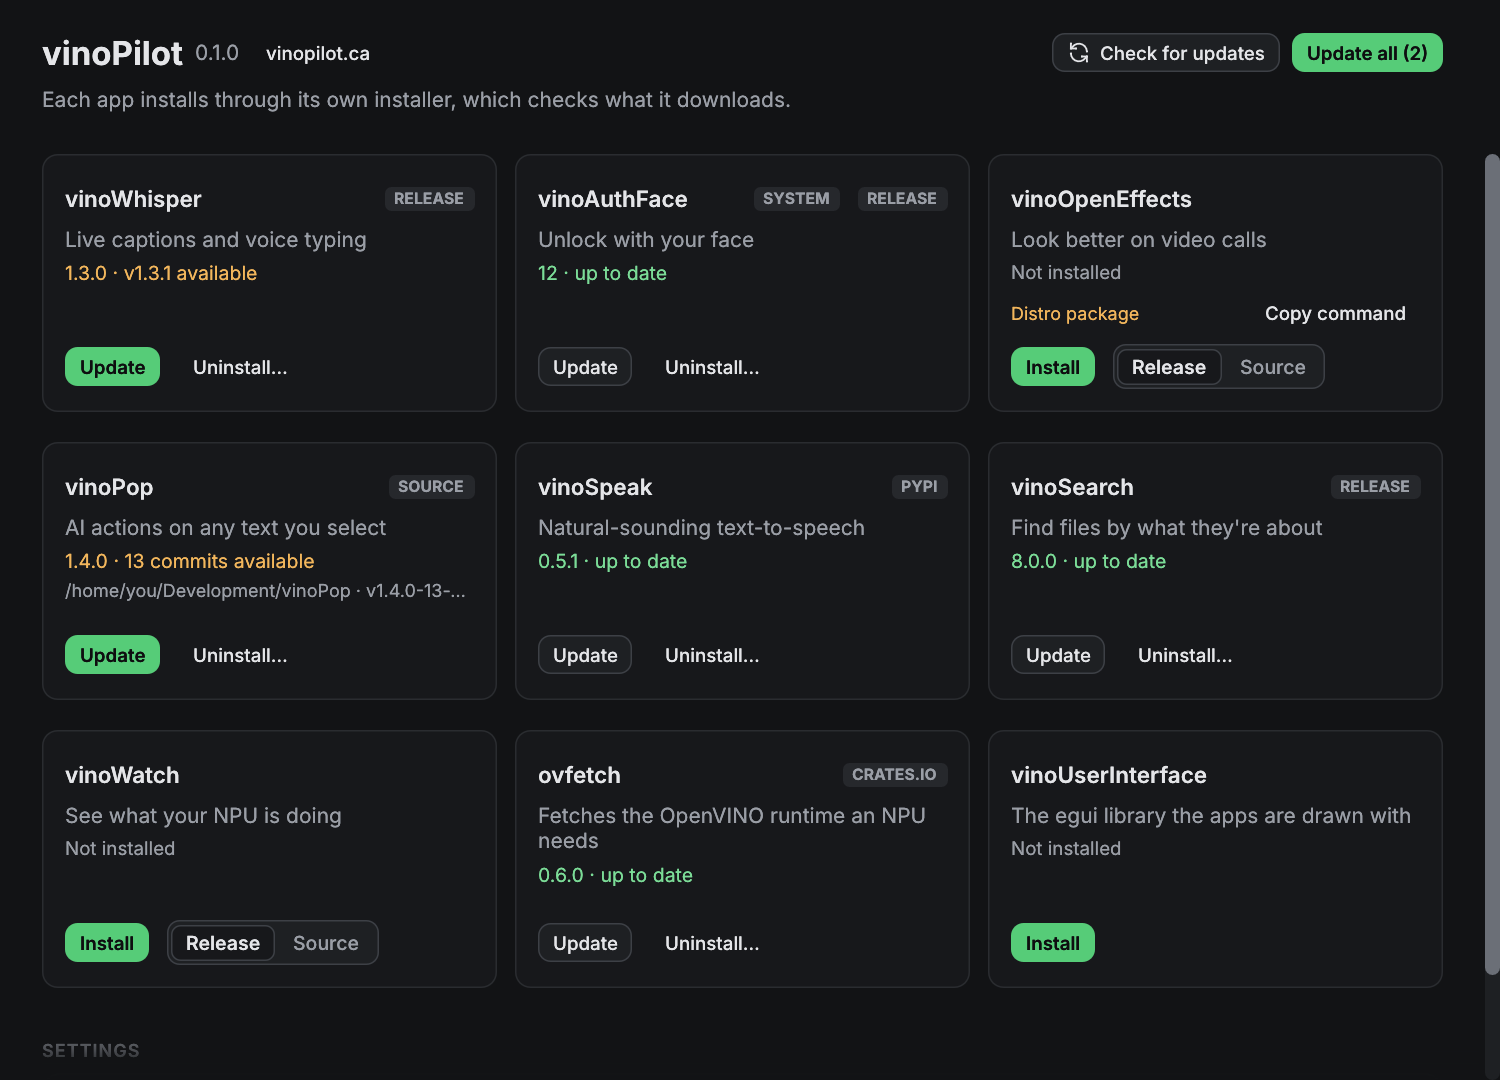
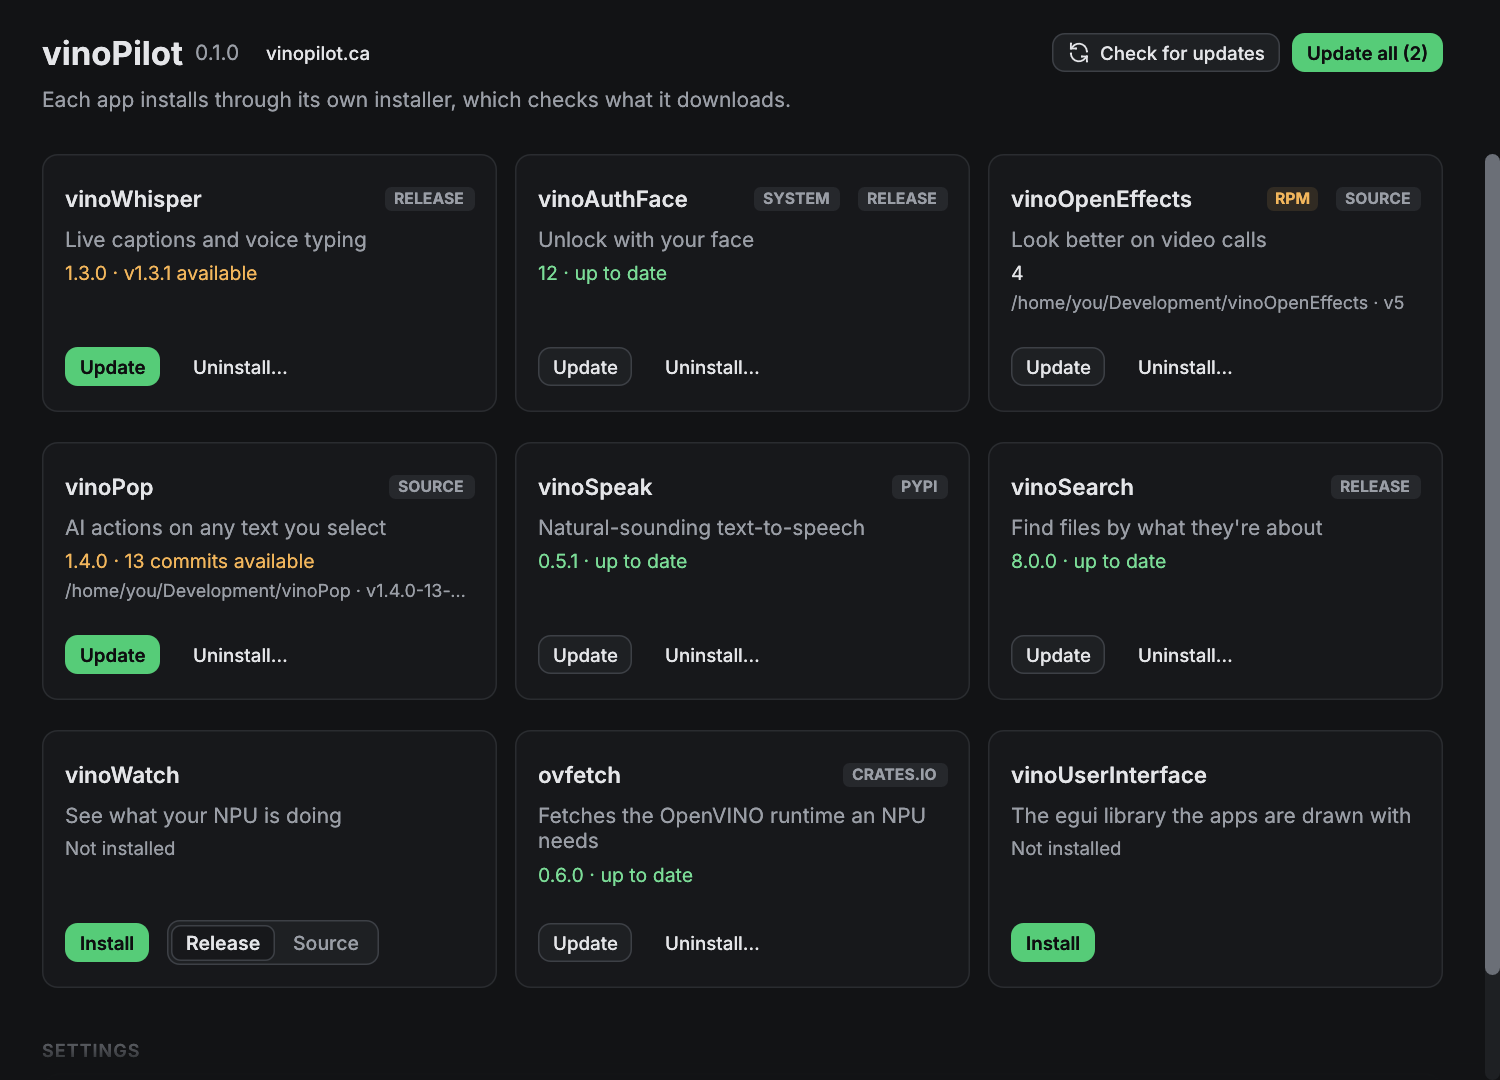
fix(gui): a working copy button, as a tag in the card's header
eframe was built without its clipboard feature, so copy_text went nowhere.
The distro row also didn't fit a card with a version and a checkout line,
and overlapped the buttons. It's now an RPM/DEB tag beside the channel tag,
a real button that copies the remove command and says COPIED for a moment.

Changed region(s): [[0.6747, 0.2444, 0.9507, 0.3667], [0.828, 0.1528, 0.8893, 0.2139]]

diff --git a/crates/gui/src/lib.rs b/crates/gui/src/lib.rs
@@ -9,7 +9,7 @@ use std::sync::mpsc::{Receiver, channel};
 use eframe::egui::{self, RichText, vec2};
 use vino_ui::{Button, ChipKind, Row, Tone, a11y, theme, widgets};
 use vinopilot_core::catalog::{self, Action, Channel, Id};
-use vinopilot_core::detect::{Installed, Local, Paths};
+use vinopilot_core::detect::{Installed, Local, Paths, SystemPackage};
 use vinopilot_core::job::{Env, Job, Outcome};
 use vinopilot_core::remote::Latest;
 use vinopilot_core::status::{self, Update};
@@ -58,6 +58,8 @@ pub struct Pilot {
     /// Components `Update all` still has to do, in order.
     queue: Vec<Id>,
     focused: bool,
+    /// The card whose remove command was just copied, and when.
+    copied: Option<(Id, f64)>,
 }
 
 impl Pilot {
@@ -84,6 +86,7 @@ impl Pilot {
             job_settled: true,
             queue: Vec::new(),
             focused: false,
+            copied: None,
         }
     }
 
@@ -309,6 +312,14 @@ impl Pilot {
         let channels = id.channels();
         let choice = self.choice.entry(id).or_insert(channels[0]);
         let looking = self.scanning.is_some() && self.local.is_empty();
+        let now = ctx.input(|i| i.time);
+        let copied_now = self
+            .copied
+            .is_some_and(|(copied, at)| copied == id && now - at < COPIED_FOR);
+        if copied_now {
+            ctx.request_repaint_after(std::time::Duration::from_secs_f64(COPIED_FOR));
+        }
+        let mut copy_clicked = false;
 
         egui::Frame::new()
             .fill(if confirming { p.error_tint } else { p.surface })
@@ -336,6 +347,12 @@ impl Pilot {
                                 "Installs system-wide, so it asks for your password",
                             );
                         }
+                        if let Some(system) = &local.system_package
+                            && distro_tag(ui, system, copied_now)
+                        {
+                            ui.ctx().copy_text(system.remove.clone());
+                            copy_clicked = true;
+                        }
                     });
                 });
                 widgets::muted(ui, id.blurb());
@@ -348,36 +365,6 @@ impl Pilot {
                     )
                     .on_hover_text(format!("Source checkout: {text}"));
                 }
-                if let Some(system) = &local.system_package {
-                    let hover = format!(
-                        "{} came from your package manager, which vinoPilot doesn't \
-                         uninstall. Remove it with:\n{}",
-                        system.packages.join(", "),
-                        system.remove
-                    );
-                    // Right to left, so the label truncates rather than the button.
-                    let row = egui::vec2(ui.available_width(), ui.spacing().interact_size.y);
-                    let rtl = egui::Layout::right_to_left(egui::Align::Center);
-                    ui.allocate_ui_with_layout(row, rtl, |ui| {
-                        if ui
-                            .add(Button::ghost("Copy command").small())
-                            .on_hover_text(&hover)
-                            .clicked()
-                        {
-                            ui.ctx().copy_text(system.remove.clone());
-                        }
-                        ui.with_layout(egui::Layout::left_to_right(egui::Align::Center), |ui| {
-                            ui.add(
-                                egui::Label::new(
-                                    RichText::new("Distro package").size(12.0).color(p.warn),
-                                )
-                                .truncate(),
-                            )
-                            .on_hover_text(&hover);
-                        });
-                    });
-                }
-
                 ui.with_layout(egui::Layout::bottom_up(egui::Align::Min), |ui| {
                     ui.add_enabled_ui(!busy && !looking, |ui| {
                         ui.horizontal_wrapped(|ui| match &local.installed {
@@ -433,6 +420,9 @@ impl Pilot {
             });
 
         self.confirm = confirm;
+        if copy_clicked {
+            self.copied = Some((id, now));
+        }
         if let Some((channel, action)) = intent {
             self.queue.clear();
             self.start(&ctx, id, channel, action);
@@ -568,6 +558,51 @@ impl Pilot {
                 });
             });
     }
+}
+
+/// How long a distro tag says "copied".
+const COPIED_FOR: f64 = 1.5;
+
+/// `RPM` in the warn tag's colours, as a button: a distro package vinoPilot
+/// doesn't remove, which copies the command that does. True when clicked.
+fn distro_tag(ui: &mut egui::Ui, system: &SystemPackage, copied: bool) -> bool {
+    let p = theme::palette(ui.ctx());
+    let text = if copied { "copied" } else { system.kind };
+    let button = egui::Button::new(
+        RichText::new(text.to_uppercase())
+            .size(10.5)
+            .family(theme::bold())
+            .color(p.warn),
+    )
+    .fill(p.warn_tint)
+    .stroke(egui::Stroke::NONE)
+    .corner_radius(4.0)
+    .min_size(vec2(0.0, 16.0));
+    let response = ui
+        .scope(|ui| {
+            ui.spacing_mut().button_padding = vec2(6.0, 0.0);
+            ui.spacing_mut().interact_size.y = 16.0;
+            ui.add(button)
+        })
+        .inner
+        .on_hover_text(format!(
+            "{} came from your package manager, which vinoPilot doesn't uninstall.\n\
+             Click to copy the command that does:\n{}",
+            system.packages.join(", "),
+            system.remove
+        ));
+    let name = if copied {
+        format!(
+            "Copied the command that removes the {} package",
+            system.kind
+        )
+    } else {
+        format!("Copy the command that removes the {} package", system.kind)
+    };
+    response
+        .ctx
+        .accesskit_node_builder(response.id, |node| node.set_label(name));
+    response.clicked()
 }
 
 /// "1.4.0 · v1.4.1 available", coloured by whether it needs the user.

diff --git a/crates/gui/tests/distro.rs b/crates/gui/tests/distro.rs
@@ -1,0 +1,64 @@
+//! A distro package's tag, which copies the command that removes it.
+
+use std::collections::HashMap;
+
+use egui_kittest::Harness;
+use egui_kittest::kittest::Queryable;
+use vino_ui::{App, egui, theme};
+use vinopilot_core::Config;
+use vinopilot_core::catalog::{Channel, Id};
+use vinopilot_core::detect::{Installed, Local, SystemPackage};
+use vinopilot_gui::Pilot;
+
+const REMOVE: &str = "sudo dnf remove vinoopeneffects";
+
+fn copied(h: &Harness<'_, (Pilot, bool)>) -> bool {
+    h.output()
+        .platform_output
+        .commands
+        .iter()
+        .any(|c| matches!(c, egui::OutputCommand::CopyText(text) if text == REMOVE))
+}
+
+#[test]
+fn the_distro_tag_copies_the_remove_command() {
+    let local = HashMap::from([(
+        Id::App(App::OpenEffects),
+        Local {
+            installed: Some(Installed {
+                channel: Channel::Source,
+                version: Some("4".into()),
+            }),
+            checkout: None,
+            system_package: Some(SystemPackage {
+                kind: "rpm",
+                packages: vec!["vinoopeneffects".into()],
+                remove: REMOVE.into(),
+            }),
+        },
+    )]);
+    let config = Config {
+        source_root: "/nowhere".into(),
+    };
+    let mut h = Harness::builder()
+        .with_size((1000.0, 720.0))
+        .build_ui_state(
+            |ui, (pilot, styled): &mut (Pilot, bool)| {
+                if !*styled {
+                    theme::apply(ui.ctx());
+                    *styled = true;
+                }
+                pilot.ui(ui);
+            },
+            (Pilot::with(config, local, HashMap::new()), false),
+        );
+    h.run();
+    assert!(!copied(&h));
+
+    h.get_by_label("Copy the command that removes the rpm package")
+        .click();
+    h.step();
+    assert!(copied(&h));
+    h.step();
+    h.get_by_label("Copied the command that removes the rpm package");
+}

diff --git a/crates/core/src/detect.rs b/crates/core/src/detect.rs
@@ -22,6 +22,8 @@ pub struct Local {
 
 #[derive(Debug, Clone, PartialEq, Eq, serde::Serialize)]
 pub struct SystemPackage {
+    /// `rpm` or `deb`.
+    pub kind: &'static str,
     /// `vinoopeneffects`, `vinoopeneffects-daemon`.
     pub packages: Vec<String>,
     /// `sudo dnf remove vinoopeneffects vinoopeneffects-daemon`.
@@ -300,6 +302,7 @@ fn system_package(paths: &Paths, id: Id) -> Option<SystemPackage> {
     .into_iter()
     .find_map(|(rpm, found)| found.filter(|p| !p.is_empty()).map(|p| (rpm, p)))?;
     Some(SystemPackage {
+        kind: if rpm { "rpm" } else { "deb" },
         remove: remove_command(rpm, &packages),
         packages,
     })

diff --git a/crates/gui/tests/screenshots.rs b/crates/gui/tests/screenshots.rs
@@ -50,9 +50,10 @@ fn demo() -> Pilot {
         (
             Id::App(App::OpenEffects),
             Local {
-                installed: None,
-                checkout: None,
+                installed: installed(Channel::Source, "4"),
+                checkout: checkout("vinoOpenEffects", "v5"),
                 system_package: Some(SystemPackage {
+                    kind: "rpm",
                     packages: vec!["vinoopeneffects".into()],
                     remove: "sudo dnf remove vinoopeneffects".into(),
                 }),

diff --git a/docs/json-api.md b/docs/json-api.md
@@ -39,7 +39,7 @@
 | `needs_root` | its actions run through `pkexec` |
 | `installed` | `null`, or how it's installed and its version (`null` when the binary wouldn't say, `"dev"` for a checkout build) |
 | `checkout` | `null`, or the git checkout in the source folder |
-| `system_package` | `null`, or the distro packages (rpm or deb) that own its commands in `/usr/bin`: `{"packages": ["vinoopeneffects"], "remove": "sudo dnf remove vinoopeneffects"}`. vinopilot doesn't remove these; `remove` is the command for the user to run |
+| `system_package` | `null`, or the distro packages (rpm or deb) that own its commands in `/usr/bin`: `{"kind": "rpm", "packages": ["vinoopeneffects"], "remove": "sudo dnf remove vinoopeneffects"}`. vinopilot doesn't remove these; `remove` is the command for the user to run |
 | `latest` | only from `check`. Each lookup is `null` (not applicable), `{"value": ...}` or `{"error": "sentence"}` |
 | `update` | `{"state": "available", "to": "v1.3.1"}`, `{"state": "up_to_date"}` or `{"state": "unknown", "reason": null or "sentence"}`, judged against the source that matches how it's installed |
 
